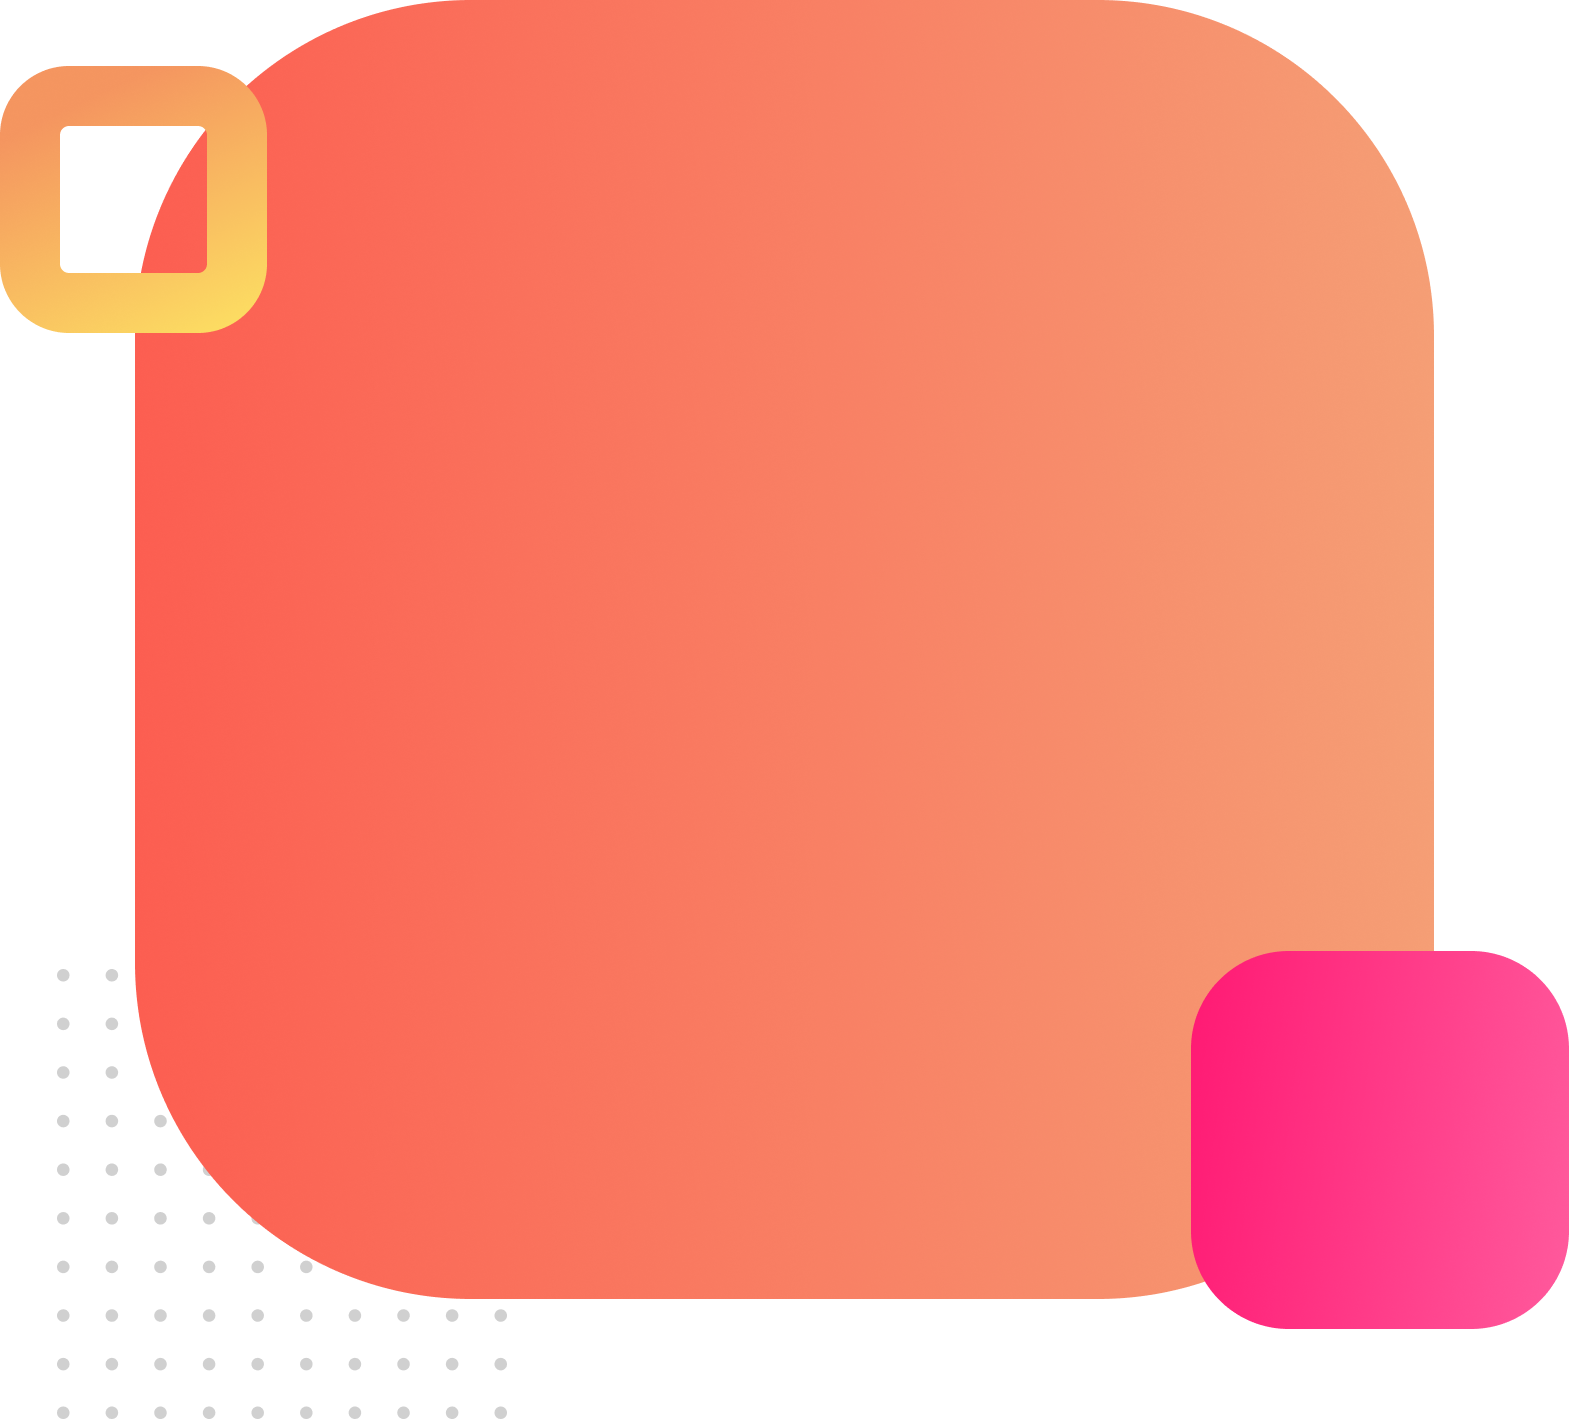
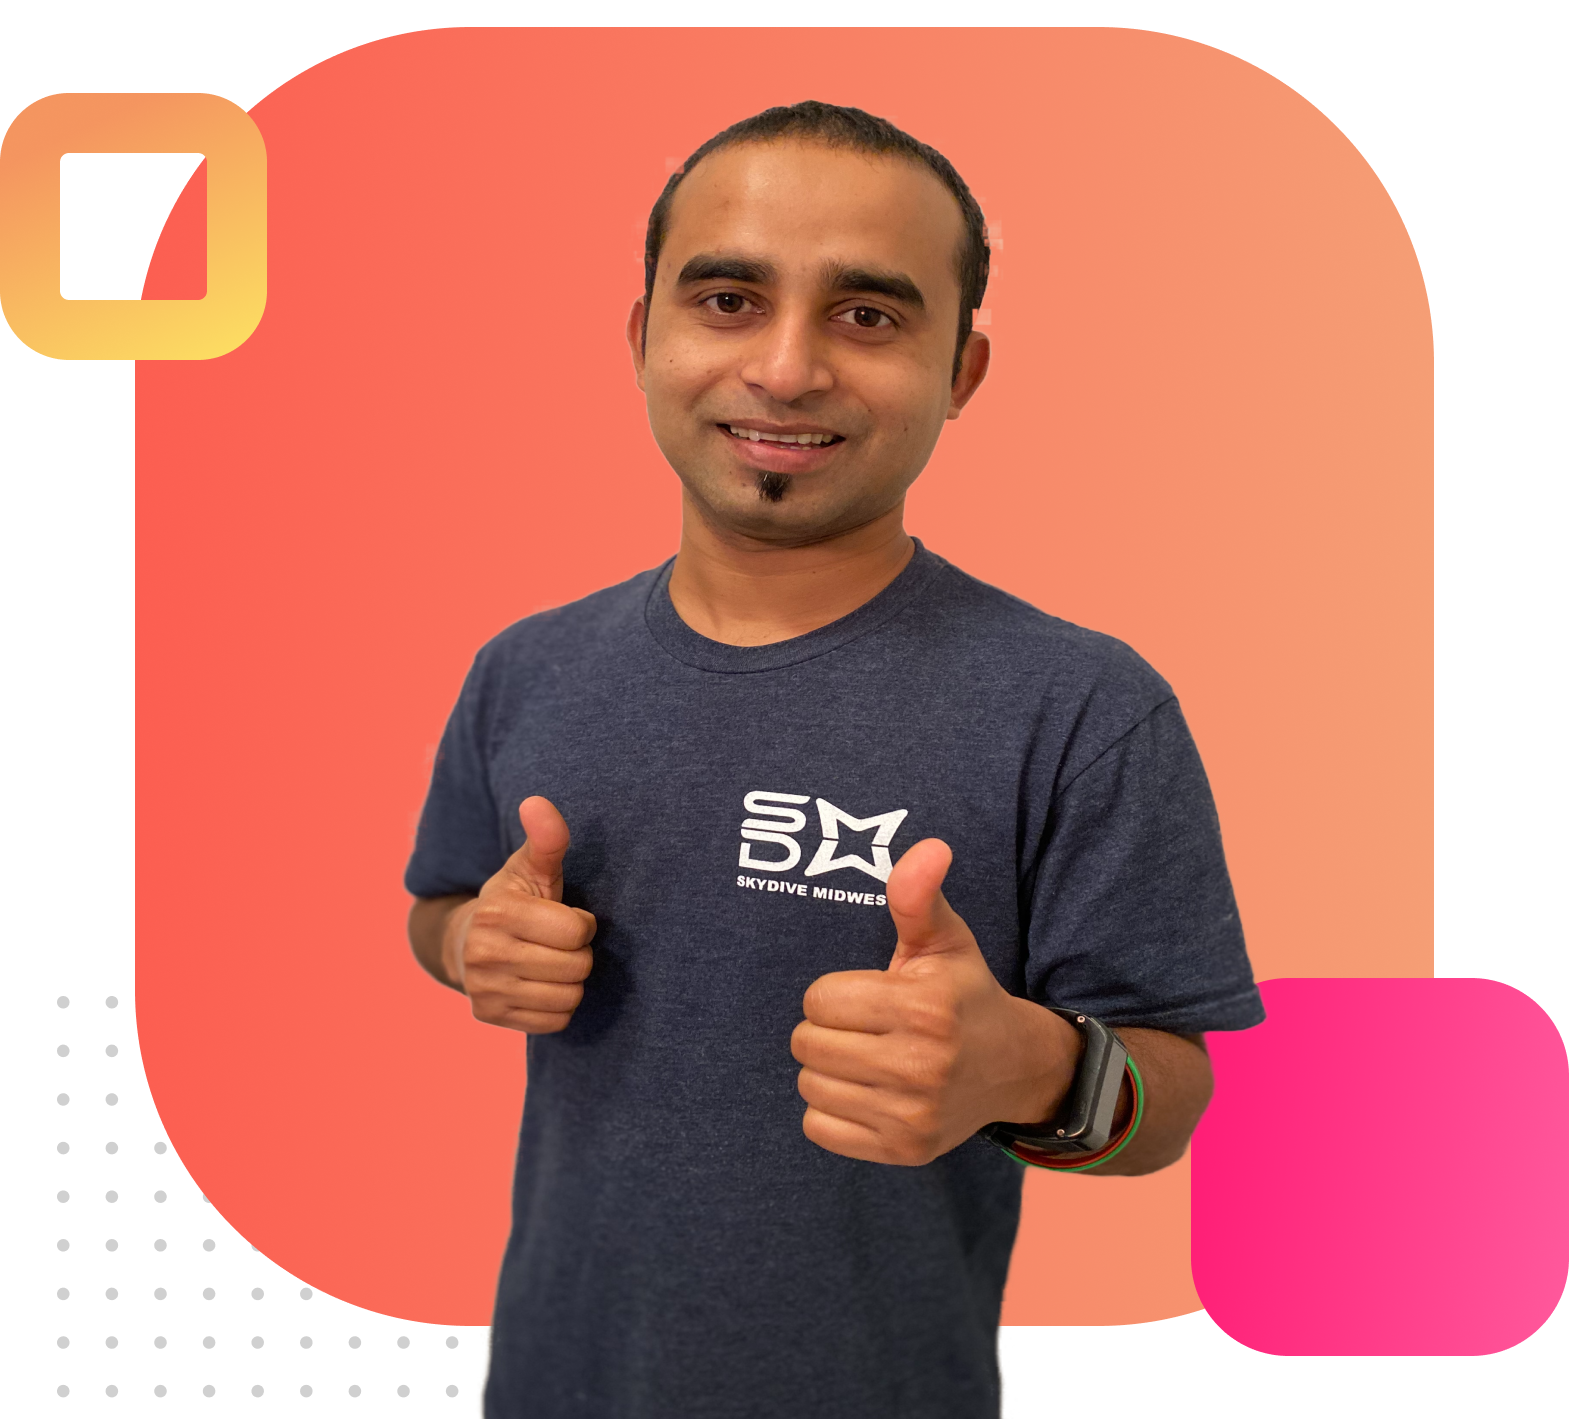
completed assignment

diff --git a/index.html b/index.html
@@ -1,0 +1,103 @@
+<!DOCTYPE html>
+<html lang="en">
+<head>
+    <meta charset="UTF-8">
+    <meta name="viewport" content="width=device-width, initial-scale=1.0">
+    <title>Document</title>
+    <link rel="stylesheet" href="style1.css">
+</head>
+<body>
+ <section class="first">
+     <div class="half">
+        <h1>Hello, I'm</h1>
+        <h1 class="colors">Rob Davidson</h1>
+        <p class="para">A full stack allaround designer that placeratetu  </p>
+       <p class="para">in rmass consectetur</p>
+        <a class="button" target="_blank" href="https://www.programming-hero.com/">Hire Me</a>
+       
+     </div>
+     <div class="half">
+         <img src="image/picone.png" alt="">
+     </div>
+
+ </section>
+ <section class="second">
+     <div class="half">
+        <img src="image/second.png" alt="">
+
+     </div>
+
+     <div class="half">
+        <h2>ABOUT</h2>
+        <p class="para">Lorem Ipsum is simply dummy text of the printing and
+        typesetting industry. Lorem Ipsum has been the industry's
+        standard dummy text ever since the 1500s, when an unknown
+        printer took a galley of type and scrambled it to make a type
+        specimen book.</p>
+        <a class="button" href="https://10minuteschool.com/">DOWNLOAD CV</a>
+
+     </div>
+ </section>
+<section class="third">
+    <h2 id=center><span class="colors"> LATEST</span> WORKING PROJECT</h2>
+    <div class="onet"> 
+        <img src="image/gym.png" alt="">
+        <h4>Power-x-gym (gym website)</h4>
+        <p class="para">Lorem Ipsum is simply dummy text of the printing and typesetting industry.</p>
+
+    </div>
+    <div class="onet">
+        <img src="image/CB.png" alt="">
+        <h4>Creative Agency</h4>
+        <p class="para">Lorem Ipsum is simply dummy text of the printing and typesetting industry.</p>
+
+    </div>
+    <div class="onet">
+        <img src="image/music.png" alt="">
+        <h4>Hard Rock Music</h4>
+        <p class="para">Lorem Ipsum is simply dummy text of the printing and typesetting industry.</p>
+        
+
+    </div>
+
+
+</section>
+ <section class="fourth">
+    <div class="imageb">
+        <div class=half>
+            <h1 class="white">Work Inquiry</h1>
+        </div>
+
+        <div class=half>
+            <a class="buttons" target="_blank" href="https://www.programming-hero.com/">Let's Chat</a>
+        </div>
+
+    </div>
+
+
+ </section>
+
+
+ <section class="fifth">
+     <h3>TESTIMONIALS</h3>
+     <div id="frst" class="half sin">
+       <h5>Pascal Tremblly</h5>
+       <h6>Creative Lead, Good King</h6>
+       <p class="para">"Rob was a real pleasure to work with and we look forward to working with him again.He is surely the kind of designer you can trust with a project from start to finish</p>
+    </div>
+
+    <div id="scnd" class="half sin">
+    
+       <h5>Jhonas Kerry</h5>
+       <h6>Better Lead, Creation Way</h6>
+       <p class="para">"Lorem ipsum dolor, sit amet consectetur adipisicing elit. Temporibus, repudiandae magnam? Voluptas porro exercitationem nobis et velit architecto dolore soluta enim repellat saepe dolores est, sed beatae dolorum voluptatem laboriosam."</p>
+
+    </div>
+</section>
+<footer>
+    <h5>STAY CONNECTED</h5>
+    <h3>hello@design.com</h3>
+
+</footer>
+</body>
+</html>

diff --git a/style1.css b/style1.css
@@ -1,0 +1,155 @@
+body{
+    font-family: Cambria, Cochin, Georgia, Times, 'Times New Roman', serif;
+    margin-top: 30px;
+    
+
+}
+h1{
+    font-size: 60px;
+    color: rgb(0, 0, 37);
+
+}
+h2{
+    color: rgb(0, 0, 37);
+}
+h3{
+    color: rgb(0, 0, 37) ;
+
+}
+h4{
+    color:  rgb(0, 0, 37);
+}
+h5{
+    color:  rgb(0, 0, 37);
+}
+h6{
+    color:  rgb(0, 0, 37);
+}
+.colors{
+    color: rgb(235, 8, 53);
+}
+.half{
+    width: 40%;
+    float:left;
+    margin-left: 5%;
+    padding-left: 2%;
+
+
+}
+.half img{
+    width: 100%;
+
+}
+.button{
+    font-weight: 600;
+    color: white;
+    text-decoration: none;
+    background-image: linear-gradient(45deg,rgba(17, 128, 148, 0.616),rgba(89, 84, 155, 0.753));
+    padding: 10px 30px;
+    border-radius: 10px;
+    width: 50px;
+    height: 30px;
+}
+section{
+        padding-bottom: 180px;
+        height: 500px;
+}
+.sin{
+    box-shadow: 10px 10px 40px gray;
+    border-radius: 5px;
+    height: 50%;
+}
+.third{
+    background-color:rgba(245, 245, 245, 0.719);
+    text-align: center;
+    margin-top: 50px;
+
+}
+.onet{
+   
+        width: 30%;
+        float:left;
+        margin-left: 2%;
+        padding-left: 1%;
+        background-color: white;
+        margin-top:150px;
+
+
+        
+    
+}
+img{
+    max-width: 100% ;
+}
+
+.para{
+    text-align: left;
+    color:rgb(0, 0, 37) ;
+}
+.imageb{
+
+  background-image: url(image/back.png);
+  background-size:contain;
+  overflow: hidden;
+  background-repeat: no-repeat;
+  width: 80%;
+  height: 300px;
+  margin: 50px;
+  padding: 50px;
+
+}
+.white{
+    color: white;
+}
+
+.buttons{
+    font-weight: 600;
+    color: white;
+    text-decoration: none;
+    background-image:linear-gradient(45deg,lightsalmon,tomato);
+    padding: 10px 30px;
+    border-radius: 10px;
+    width: 50px;
+    height: 30px;
+
+}
+footer{
+    text-align: center;
+    padding-bottom: 160px;
+}
+
+
+
+
+
+
+
+
+
+
+
+
+
+
+
+
+
+
+#frst{
+    border-left: 7px solid;
+    border-image: linear-gradient(rgb(228, 6, 117),rgb(156, 0, 47));
+    border-image-slice: 1;
+    background-color: white;
+}
+#scnd{
+    border-left: 7px solid;
+    border-image: linear-gradient(rgb(11, 143, 167),rgb(35, 13, 131));
+    border-image-slice: 1;
+    background-size: 50%;
+}
+.box{
+    background-image: url("image/back.png");
+    padding: 200px 100px ;
+  
+    background-repeat: no-repeat;
+}
